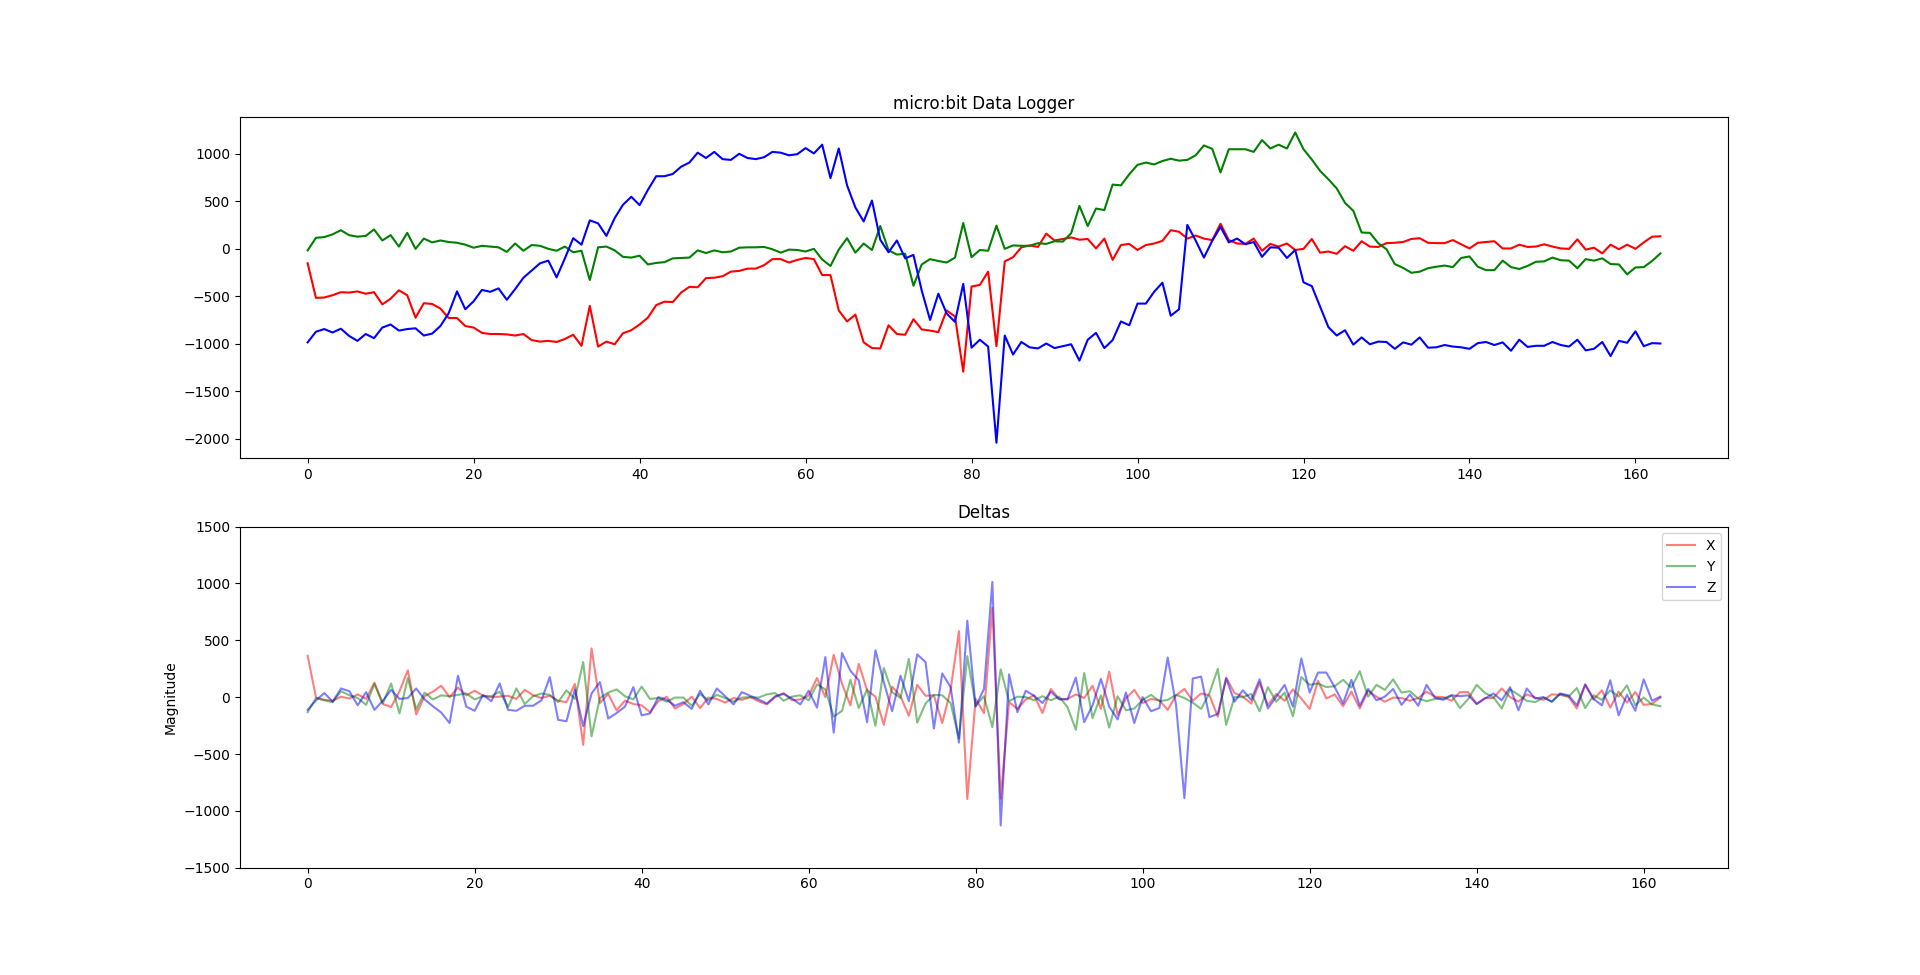
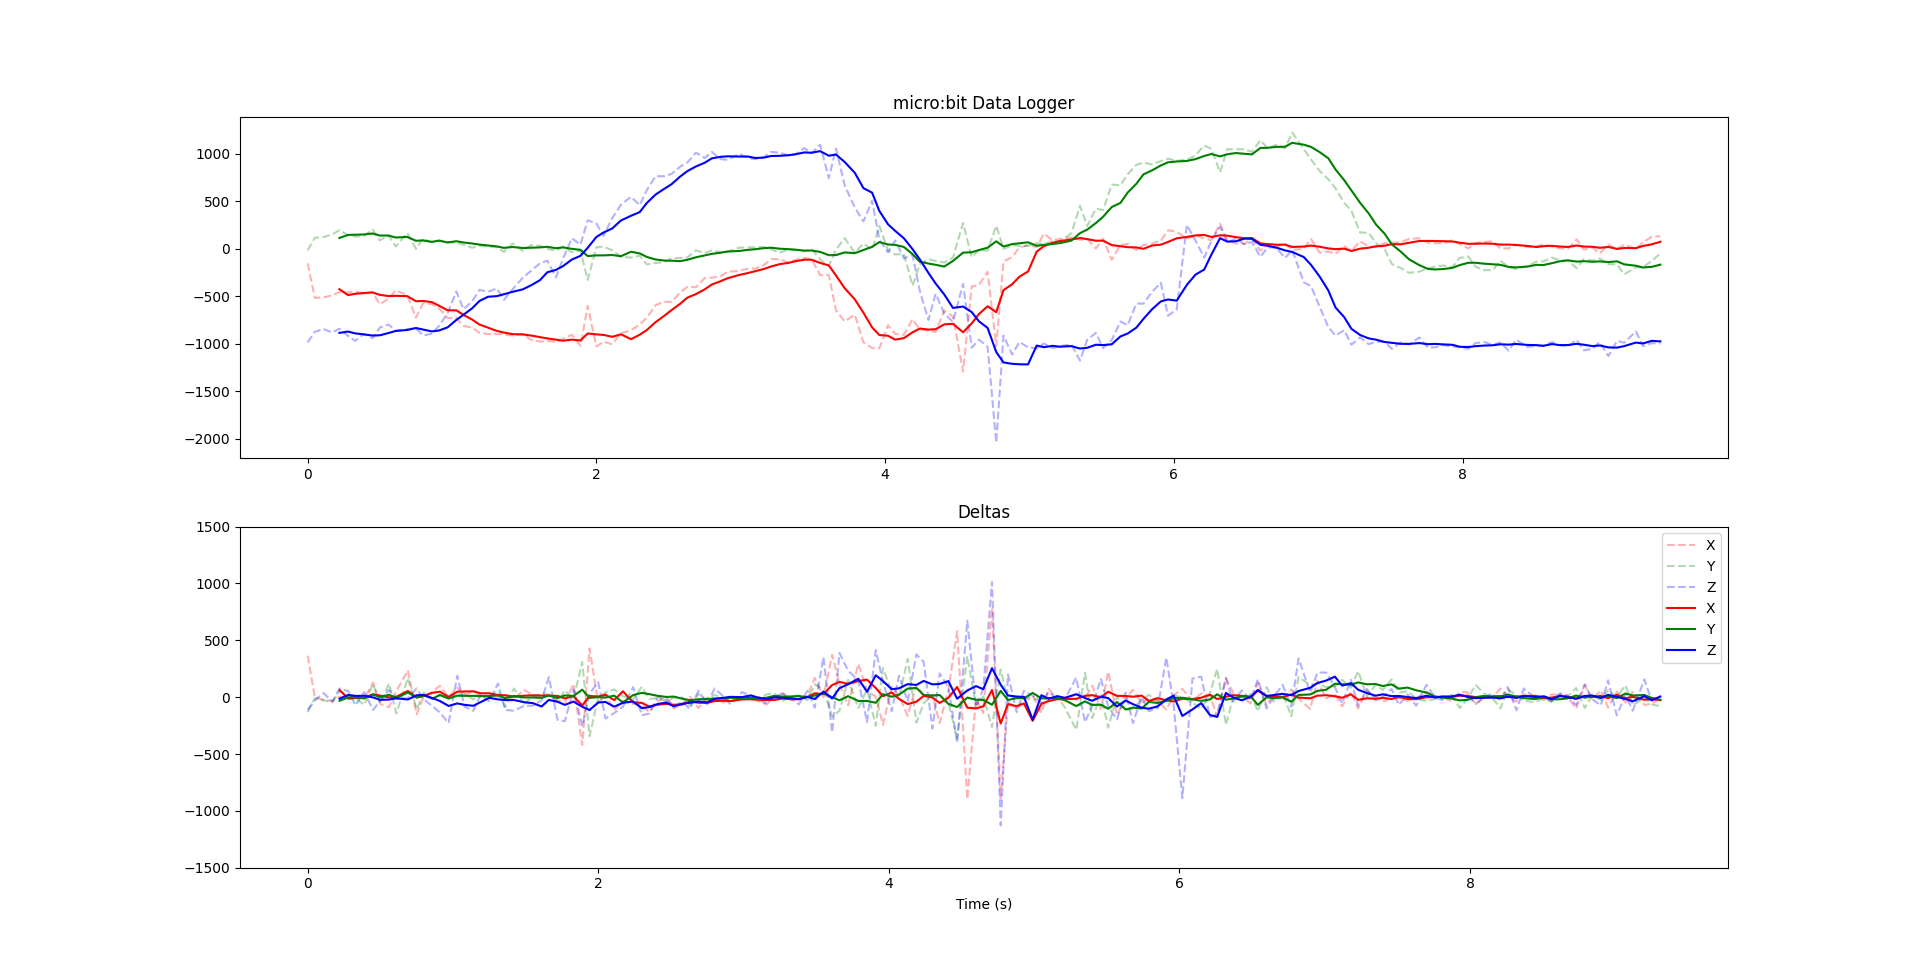
Update to use rolling averages to smooth noisy data

diff --git a/via_csv_data/visualiser.py b/via_csv_data/visualiser.py
@@ -8,28 +8,46 @@ from matplotlib import pyplot as plt
 
 # Open file explorer window for user to select CSV Data
 file = fd.askopenfilename(
-    filetypes=[("CSV files", "*.csv")], title="Set input .csv file" )
+    filetypes=[("CSV files", "*.csv")],title="Set input .csv file" )
 # Read the selected data into a dataframe
 # .reset_index() creates an index column
-data = pd.read_csv(file, header=0)
+data = pd.read_csv(file, header=0).reset_index()
 data.time = data["Time (seconds)"] - min(data["Time (seconds)"])
 # Create the figure to plot to
 fig = plt.figure(figsize=(10, 10))
 ax = fig.add_subplot(2, 1, 1)
 d_ax = fig.add_subplot(2, 1, 2)
 
+roller = 5
+
+rolling = data.rolling(roller).mean().dropna()
+print(rolling)
+
 # Plot the data
-ax.plot(data.time, data.x, "r", label="X")
-ax.plot(data.time, data.y, "g", label="Y")
-ax.plot(data.time, data.z, "b", label="Z")
+ax.plot(data.time, data.x, "r--", label="X", alpha=0.3)
+ax.plot(data.time, data.y, "g--", label="Y", alpha=0.3)
+ax.plot(data.time, data.z, "b--", label="Z", alpha=0.3)
+
+ax.plot(data.time[roller-1:], rolling.x, "r", label="X")
+ax.plot(data.time[roller-1:], rolling.y, "g", label="Y")
+ax.plot(data.time[roller-1:], rolling.z, "b", label="Z")
 
 data['dx'] = data['x'] - data['x'].shift(-1)
 data['dy'] = data['y'] - data['y'].shift(-1)
 data['dz'] = data['z'] - data['z'].shift(-1)
 
-d_ax.plot(data.time, data.dx, "r", label="X", alpha=0.5)
-d_ax.plot(data.time, data.dy, "g", label="Y", alpha=0.5)
-d_ax.plot(data.time, data.dz, "b", label="Z", alpha=0.5)
+rolling['dx'] = rolling['x'] - rolling['x'].shift(-1)
+rolling['dy'] = rolling['y'] - rolling['y'].shift(-1)
+rolling['dz'] = rolling['z'] - rolling['z'].shift(-1)
+
+d_ax.plot(data.time, data.dx, "r--", label="X", alpha=0.3)
+d_ax.plot(data.time, data.dy, "g--", label="Y", alpha=0.3)
+d_ax.plot(data.time, data.dz, "b--", label="Z", alpha=0.3)
+
+d_ax.plot(data.time[roller-1:], rolling.dx, "r", label="X")
+d_ax.plot(data.time[roller-1:], rolling.dy, "g", label="Y")
+d_ax.plot(data.time[roller-1:], rolling.dz, "b", label="Z")
+
 
 # Set title, ylabel, y-axis bound limits
 # Define a legend

diff --git a/README.md b/README.md
@@ -412,33 +412,57 @@ file = fd.askopenfilename(
 data = pd.read_csv(file, header=0, delimiter=",").reset_index()
 ```
 
-**Plot Data:**
+**Create Figure:**
 
 ```py
 fig = plt.figure(figsize=(10, 10))
 ax = fig.add_subplot(2, 1, 1)
-```
-
-Plot `Time` against `x`, `y`, `z` and `strength`. Assign each property its own colour and `label`.
-```py
-plt.plot(data["Time (seconds)"], data.x, "r", label="X")
-plt.plot(data["Time (seconds)"], data.y, "g", label="Y")
-plt.plot(data["Time (seconds)"], data.z, "b", label="Z")
-```
-
-**Calculate and Plot Deltas:**
-
-```py
 d_ax = fig.add_subplot(2, 1, 2)
+```
 
+**Calculate Rolling Average:**
+
+```py
+roller = 5
+rolling = data.rolling(roller).mean().dropna()
+```
+
+**Plot Data (Raw and Rolling Values):**
+
+```py
+ax.plot(data.time, data.x, "r--", label="X", alpha=0.3)
+ax.plot(data.time, data.y, "g--", label="Y", alpha=0.3)
+ax.plot(data.time, data.z, "b--", label="Z", alpha=0.3)
+
+ax.plot(data.time[roller-1:], rolling.x, "r", label="X")
+ax.plot(data.time[roller-1:], rolling.y, "g", label="Y")
+ax.plot(data.time[roller-1:], rolling.z, "b", label="Z")
+```
+
+**Calculate Deltas:**
+
+```py
 data['dx'] = data['x'] - data['x'].shift(-1)
 data['dy'] = data['y'] - data['y'].shift(-1)
 data['dz'] = data['z'] - data['z'].shift(-1)
 
-d_ax.plot(data.index, data.dx, "r", label="X", alpha=0.5)
-d_ax.plot(data.index, data.dy, "g", label="Y", alpha=0.5)
-d_ax.plot(data.index, data.dz, "b", label="Z", alpha=0.5)
+rolling['dx'] = rolling['x'] - rolling['x'].shift(-1)
+rolling['dy'] = rolling['y'] - rolling['y'].shift(-1)
+rolling['dz'] = rolling['z'] - rolling['z'].shift(-1)
 ```
+
+**Plot Delta Data (Raw and Rolling Values):**:
+
+```py
+d_ax.plot(data.time, data.dx, "r--", label="X", alpha=0.3)
+d_ax.plot(data.time, data.dy, "g--", label="Y", alpha=0.3)
+d_ax.plot(data.time, data.dz, "b--", label="Z", alpha=0.3)
+
+d_ax.plot(data.time[roller-1:], rolling.dx, "r", label="X")
+d_ax.plot(data.time[roller-1:], rolling.dy, "g", label="Y")
+d_ax.plot(data.time[roller-1:], rolling.dz, "b", label="Z")
+```
+
 **Format the Plot:**
 
 ```py
